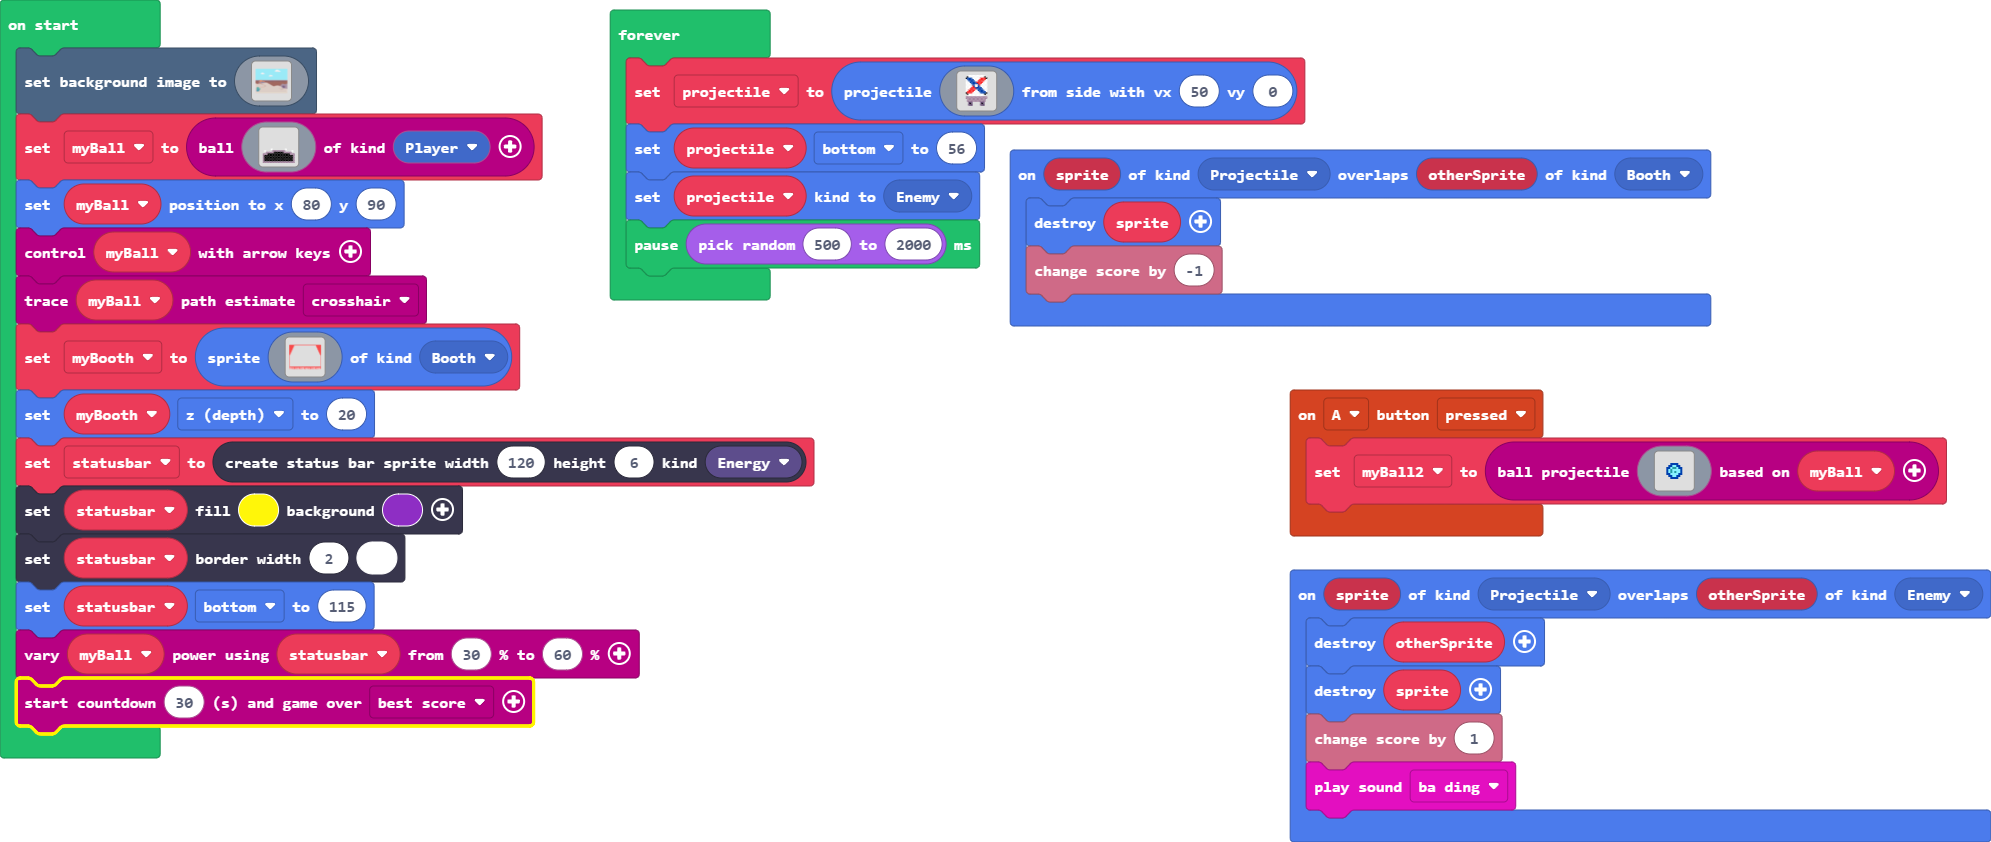
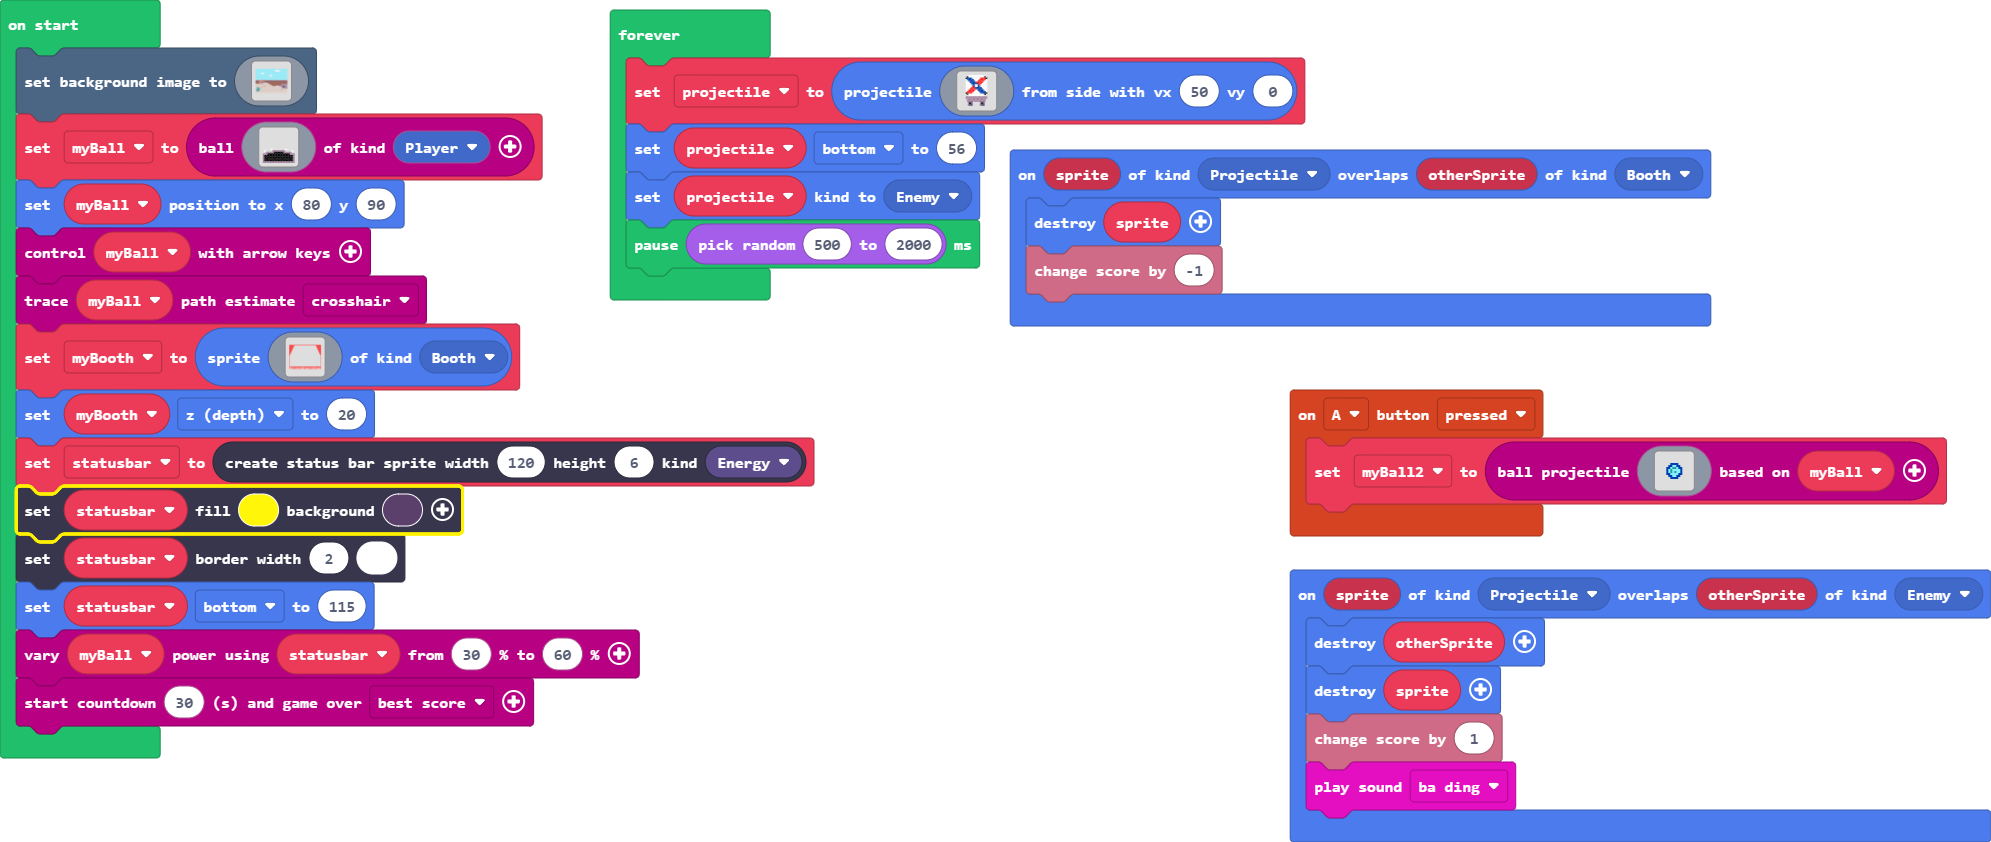
Update main.blocks, main.ts

Changed region(s): [[0.0, 0.8029, 0.2803, 0.8646], [0.0, 0.5558, 0.218, 0.6485]]

diff --git a/main.ts b/main.ts
@@ -22,7 +22,7 @@ myBall.setTraceMulti(carnival.Tracers.Cross)
 let myBooth = sprites.create(assets.image`booth`, SpriteKind.Booth)
 myBooth.z = 20
 let statusbar = statusbars.create(120, 6, StatusBarKind.Energy)
-statusbar.setColor(5, 10)
+statusbar.setColor(5, 12)
 statusbar.setBarBorder(2, 1)
 statusbar.bottom = 115
 myBall.variablePower(statusbar, 30, 60)
